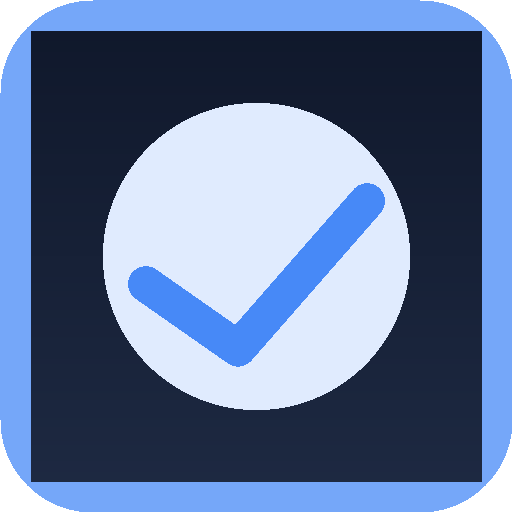
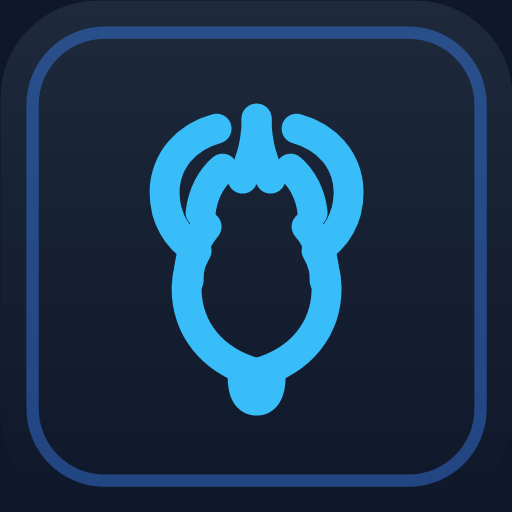
feat: renombrar la app a Segundo Cerebro y cambiar el icono por un cerebro

diff --git a/index.html b/index.html
@@ -3,7 +3,7 @@
   <head>
     <meta charset="UTF-8" />
     <meta name="viewport" content="width=device-width, initial-scale=1.0, maximum-scale=1.0, user-scalable=no, viewport-fit=cover" />
-    <title>Daniel Organizador | Tracker de Productividad</title>
+    <title>Segundo Cerebro | Tracker de Productividad</title>
     <meta name="description" content="Aplicación para seguimiento de hábitos diarios y gestión de tareas. Construye una mejor versión de ti mismo día a día.">
     <meta name="author" content="Daniel" />
 
@@ -12,7 +12,7 @@
     <meta name="mobile-web-app-capable" content="yes" />
     <meta name="apple-mobile-web-app-capable" content="yes" />
     <meta name="apple-mobile-web-app-status-bar-style" content="black-translucent" />
-    <meta name="apple-mobile-web-app-title" content="Organizador" />
+    <meta name="apple-mobile-web-app-title" content="Segundo Cerebro" />
     
     
     <!-- iOS Icons -->
@@ -23,12 +23,12 @@
     
     <!-- Open Graph -->
     <meta property="og:type" content="website" />
-    <meta property="og:title" content="Daniel Organizador | Tracker de Productividad">
+    <meta property="og:title" content="Segundo Cerebro | Tracker de Productividad">
     <meta property="og:description" content="Aplicación para seguimiento de hábitos diarios y gestión de tareas.">
     <meta property="og:image" content="/pwa-192x192.png" />
 
     <meta name="twitter:card" content="summary" />
-    <meta name="twitter:title" content="Daniel Organizador | Tracker de Productividad">
+    <meta name="twitter:title" content="Segundo Cerebro | Tracker de Productividad">
     <meta name="twitter:description" content="Aplicación para seguimiento de hábitos diarios y gestión de tareas.">
       <!-- CRITICAL: DO NOT REMOVE/MODIFY THIS COMMENT OR THE SCRIPT BELOW -->
     <script src="https://blink.new/auto-engineer.js?projectId=organizado-daniel-6x2xsmou" type="module"></script>

diff --git a/src/components/Navigation.tsx b/src/components/Navigation.tsx
@@ -177,7 +177,7 @@ function getPageTitle(pathname: string): string {
       if (sub) return sub.label;
     }
   }
-  return 'Organizador';
+  return 'Segundo Cerebro';
 }
 
 function ThemeToggle({ collapsed }: { collapsed?: boolean }) {
@@ -316,7 +316,7 @@ export const Navigation = () => {
           <div className="h-12 flex items-center justify-between px-4 border-b shrink-0"
             style={{ paddingTop: 'env(safe-area-inset-top)', marginTop: 0 }}>
           <div className="flex items-center gap-2">
-            <h1 className="text-sm font-semibold">Organizador</h1>
+            <h1 className="text-sm font-semibold">Segundo Cerebro</h1>
             <OfflineBadge isOnline={isOnline} pendingMutations={pendingMutations} />
           </div>
           </div>
@@ -378,7 +378,7 @@ export const Navigation = () => {
         )}>
           {!collapsed && (
             <div className="flex items-center gap-2 min-w-0">
-              <h1 className="text-sm font-semibold truncate">Organizador</h1>
+              <h1 className="text-sm font-semibold truncate">Segundo Cerebro</h1>
               <OfflineBadge isOnline={isOnline} pendingMutations={pendingMutations} />
             </div>
           )}

diff --git a/vite.config.ts b/vite.config.ts
@@ -25,8 +25,8 @@ export default defineConfig(({ mode }) => ({
       devOptions: { enabled: false },
       includeAssets: ["pwa-192x192.png", "pwa-512x512.png", "pwa-512x512-maskable.png", "app-icon.svg", "robots.txt", "favicon.ico", "favicon.svg"],
       manifest: {
-        name: "Daniel Organizador",
-        short_name: "Organizador",
+        name: "Segundo Cerebro",
+        short_name: "Segundo Cerebro",
         description: "App para seguimiento de hábitos diarios, gestión de tareas y productividad personal",
         theme_color: "#0f172a",
         background_color: "#0f172a",

diff --git a/supabase/functions/life-coach/index.ts b/supabase/functions/life-coach/index.ts
@@ -452,7 +452,7 @@ ${JSON.stringify(ctx).slice(0, 60000)}`;
           "Content-Type": "application/json",
           Authorization: `Bearer ${OPENROUTER_API_KEY}`,
           "HTTP-Referer": "https://lovable.dev",
-          "X-Title": "Daniel Organizador",
+          "X-Title": "Segundo Cerebro",
         },
         body: JSON.stringify({ model: modelo, messages, tools }),
       });

diff --git a/supabase/functions/finance-ai/index.ts b/supabase/functions/finance-ai/index.ts
@@ -88,7 +88,7 @@ B) Faltan datos:
           "Content-Type": "application/json",
           Authorization: `Bearer ${OPENROUTER_API_KEY}`,
           "HTTP-Referer": "https://lovable.dev",
-          "X-Title": "Daniel Organizador",
+          "X-Title": "Segundo Cerebro",
         },
         body: JSON.stringify({ model: modelo, messages, temperature: 0.2 }),
       });
